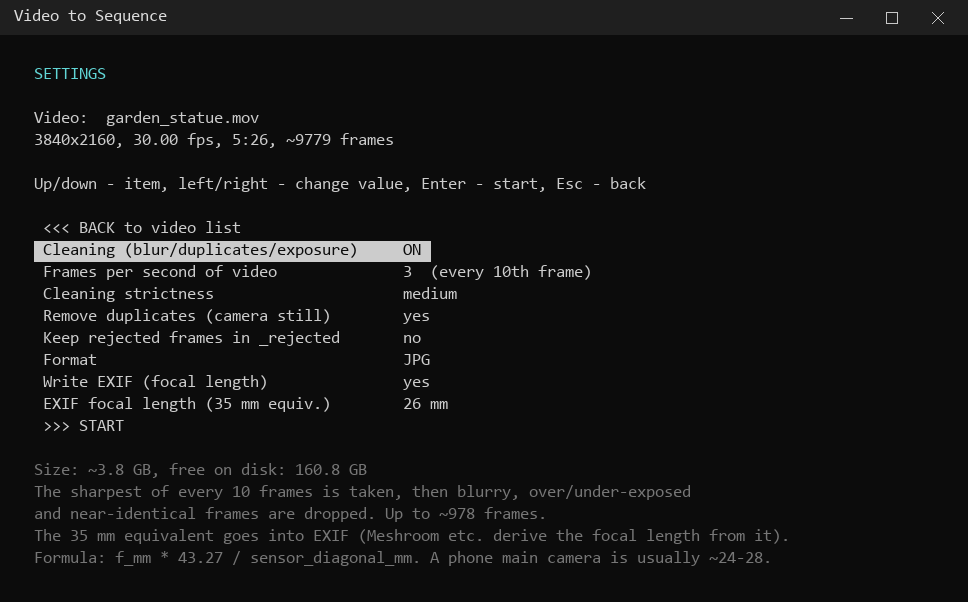
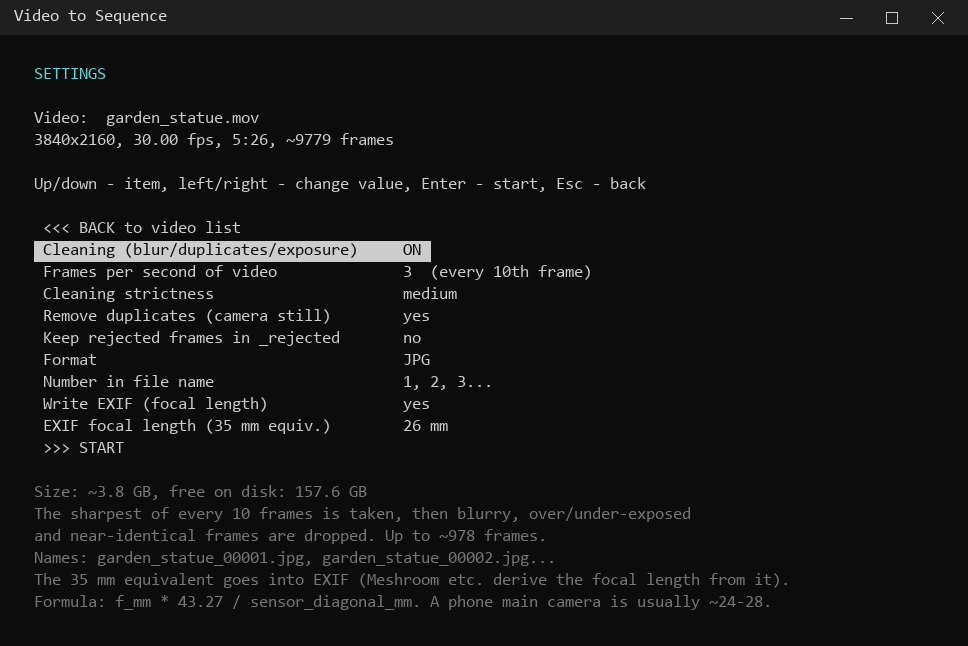
Add file numbering setting: from 1, from 0, or video frame number

diff --git a/README.md b/README.md
@@ -35,7 +35,7 @@ A single-file Windows tool that turns a video into a clean image sequence for ph
 2. Double-click it.
 3. **Page 1**: choose the interface language (top line) and a video. Enter opens the video, Esc exits.
 4. **Page 2**: change settings with ←/→, then press Enter on any item to start. The first item, `<<< BACK`, returns to the video list.
-5. Wait for processing. Frames are saved to `<video name>\<video name>_00001.jpg`, …
+5. Wait for processing. Frames are saved to `<video name>\<video name>_00001.jpg`, … (see *Number in file name*).
 
 ![Settings](docs/settings_en.png)
 
@@ -49,6 +49,7 @@ A single-file Windows tool that turns a video into a clean image sequence for ph
 | Remove duplicates | yes / no | Drop frames almost identical to the previous kept one. |
 | Keep rejected frames | yes / no | Save dropped frames to `_rejected\` with the reason in the file name, so you can check what was removed. |
 | Format | JPG / PNG | JPG quality 95 (~1–3 MB for 4K), PNG lossless (~25–30 MB for 4K). |
+| Number in file name | 1, 2, 3… / 0, 1, 2… / video frame number (from 0) | How frames are numbered: consecutively from 1, consecutively from 0, or by the frame's index in the original video (e.g. `_00000`, `_00010`, `_00020`… at every 10th frame). The settings page shows example names. |
 | Write EXIF | yes / no | Turn focal-length EXIF on or off. |
 | EXIF focal length | 13–85 mm | 35 mm equivalent focal length of the camera that shot the video. |
 
@@ -65,7 +66,7 @@ A single-file Windows tool that turns a video into a clean image sequence for ph
    - sharpness = variance of the Laplacian, plus mean brightness;
    - in each window of N frames the sharpest well-exposed frame becomes a *candidate*;
    - candidates are judged in clusters of 30, each compared with ±7 neighbours. A candidate is rejected as **blur** if it is clearly less sharp than the local median or the median of the whole video, as **exposure** if its mean brightness is outside 15–240, or as **duplicate** if its 64×36 thumbnail barely differs from the last kept frame;
-   - accepted frames are encoded in background threads and written to disk immediately, numbered consecutively.
+   - accepted frames are encoded in background threads and written to disk immediately.
 4. Settings are saved to `make_sequence.json` next to the `.bat`.
 
 ## Limitations
@@ -76,7 +77,7 @@ A single-file Windows tool that turns a video into a clean image sequence for ph
 - **8-bit output**: with cleaning ON frames go through 8-bit YUV 4:2:0, so HDR / 10-bit video is converted without tone mapping and may look flat.
 - **Only the first video stream** is used. Audio and other streams are ignored.
 - **Heuristic cleaning**: the sharpness measure can't tell motion blur from out-of-focus blur or from a plain, low-texture surface. On scenes with large textureless areas use the *soft* strictness, or keep rejected frames and check them.
-- **Frames are renumbered** after cleaning. The original frame index is kept only in `_rejected` file names.
+- **Numbers have gaps** in the *video frame number* mode, since dropped frames leave holes. Some tools expect a continuous sequence; use 0, 1, 2… or 1, 2, 3… for them.
 - **Disk space**: 4K PNG takes ~28 MB per frame, so a 5-minute video at "all" frames needs ~270 GB. Check the size estimate in the settings before you start.
 - Performance depends on the CPU. Decoding uses hardware acceleration when ffmpeg supports it (`-hwaccel auto`).
 
@@ -123,7 +124,7 @@ A single-file Windows tool that turns a video into a clean image sequence for ph
 2. Запустите двойным кликом.
 3. **Страница 1**: выберите язык интерфейса (верхняя строка) и видео. Enter открывает видео, Esc закрывает программу.
 4. **Страница 2**: меняйте настройки стрелками ←/→ и нажмите Enter на любом пункте, чтобы начать. Первый пункт, `<<< НАЗАД`, возвращает к списку видео.
-5. Дождитесь окончания. Кадры сохраняются в `<имя видео>\<имя видео>_00001.jpg`, …
+5. Дождитесь окончания. Кадры сохраняются в `<имя видео>\<имя видео>_00001.jpg`, … (см. *Номер в имени файла*).
 
 ![Настройки](docs/settings_ru.png)
 
@@ -137,6 +138,7 @@ A single-file Windows tool that turns a video into a clean image sequence for ph
 | Убирать дубликаты | да / нет | Выбрасывать кадры, почти не отличающиеся от предыдущего сохранённого. |
 | Сохранить отбракованные | да / нет | Сохранять выброшенные кадры в `_rejected\` с причиной в имени файла, чтобы можно было проверить, что удалено. |
 | Формат | JPG / PNG | JPG качество 95 (~1–3 МБ на 4K-кадр), PNG без потерь (~25–30 МБ на 4K-кадр). |
+| Номер в имени файла | 1, 2, 3… / 0, 1, 2… / номер кадра в видео (с 0) | Как нумеруются кадры: подряд с 1, подряд с 0 или по номеру кадра в исходном видео (например `_00000`, `_00010`, `_00020`… при каждом 10-м кадре). На странице настроек показан пример имён. |
 | Записывать EXIF | да / нет | Включает или выключает запись фокусного в EXIF. |
 | Фокусное для EXIF | 13–85 мм | Эквивалентное фокусное (35 мм) камеры, которой снято видео. |
 
@@ -153,7 +155,7 @@ A single-file Windows tool that turns a video into a clean image sequence for ph
    - резкость считается как дисперсия лапласиана, плюс средняя яркость;
    - в каждом окне из N кадров самый резкий кадр с нормальной экспозицией становится *кандидатом*;
    - кандидаты оцениваются кластерами по 30, каждый сравнивается с ±7 соседями. Кандидат отбраковывается как **размытие**, если он заметно мягче локальной медианы или медианы всего видео; как **экспозиция**, если средняя яркость вне 15–240; как **дубликат**, если его миниатюра 64×36 почти не отличается от последнего сохранённого кадра;
-   - принятые кадры кодируются в фоновых потоках, сразу пишутся на диск и нумеруются подряд.
+   - принятые кадры кодируются в фоновых потоках и сразу пишутся на диск.
 4. Настройки сохраняются в `make_sequence.json` рядом с `.bat`.
 
 ## Ограничения
@@ -164,7 +166,7 @@ A single-file Windows tool that turns a video into a clean image sequence for ph
 - **8 бит**: с очисткой кадры проходят через 8-битный YUV 4:2:0, поэтому HDR и 10-битное видео конвертируется без тонмаппинга и может выглядеть блёклым.
 - **Берётся только первый видеопоток**, звук и другие потоки игнорируются.
 - **Очистка эвристическая**: резкость не отличает смаз от расфокуса и от просто однотонной поверхности. Для сцен с большими участками без текстуры выбирайте *мягкую* строгость или сохраняйте отбракованные кадры и проверяйте их.
-- **После очистки кадры перенумеровываются**. Исходный номер кадра остаётся только в именах файлов в `_rejected`.
+- **В режиме «номер кадра в видео» нумерация с пропусками**, ведь отброшенные кадры оставляют дыры. Некоторые программы ждут непрерывную секвенцию, для них выбирайте 0, 1, 2… или 1, 2, 3….
 - **Место на диске**: 4K PNG занимает ~28 МБ на кадр, 5 минут видео со всеми кадрами — ~270 ГБ. Проверьте оценку размера в настройках перед стартом.
 - Скорость зависит от процессора. Декодирование использует аппаратное ускорение, если ffmpeg его поддерживает (`-hwaccel auto`).
 
